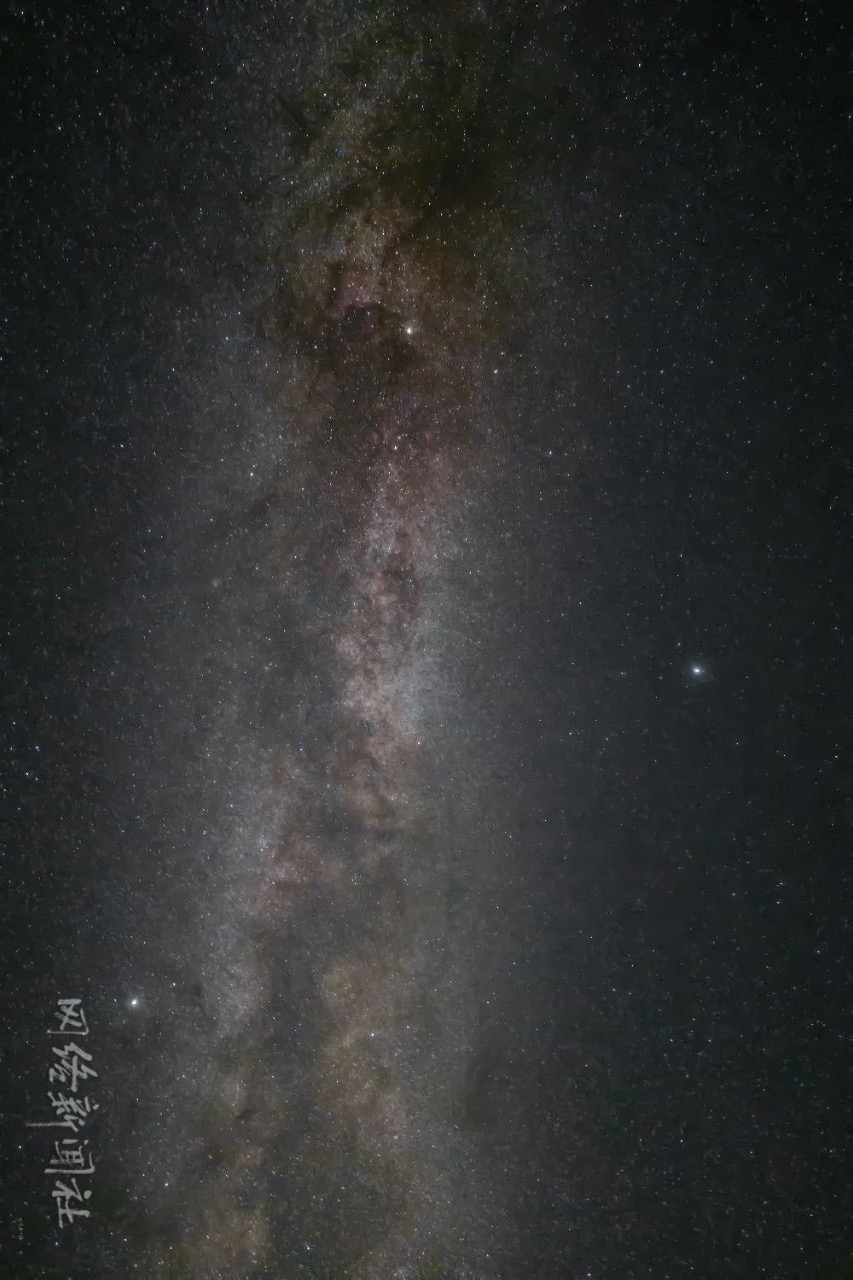
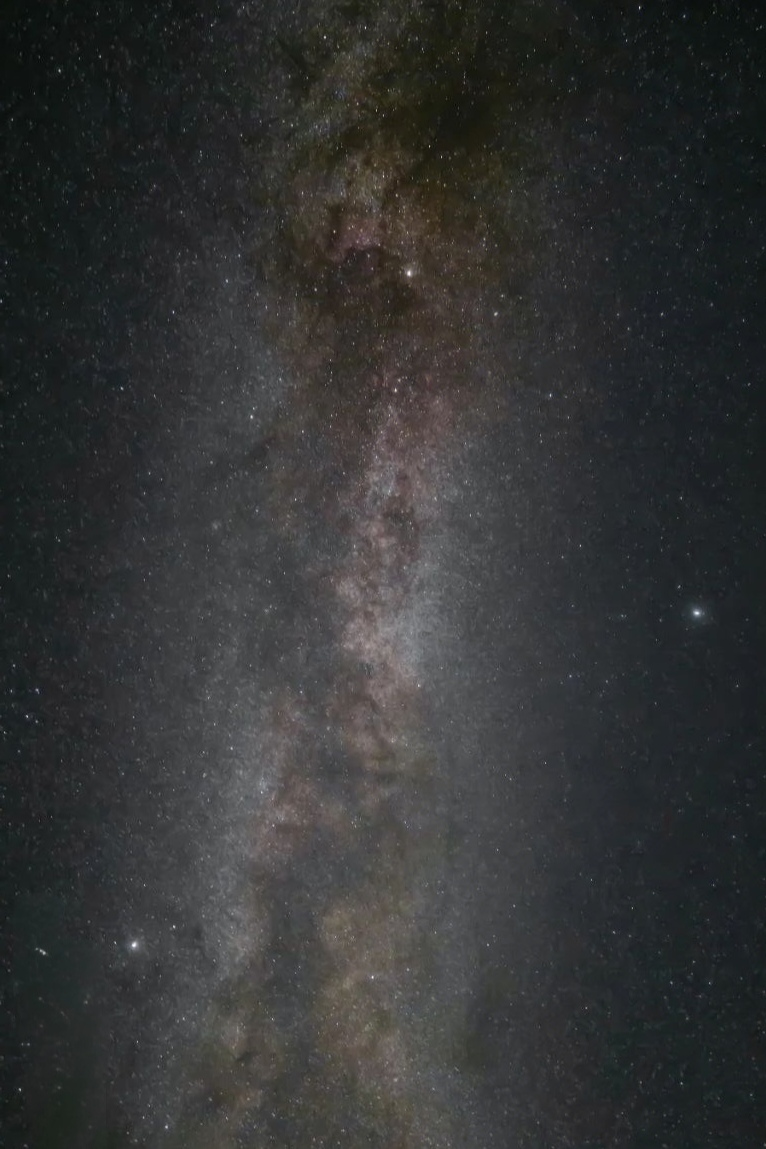
Update Aksai photo and add astrophotography epigraph

diff --git a/_sass/layout/_academic-tech.scss b/_sass/layout/_academic-tech.scss
@@ -987,6 +987,36 @@ html[data-theme="dark"] {
   gap: 1rem;
 }
 
+.showcase-epigraph {
+  display: flex;
+  align-items: baseline;
+  gap: 0.75rem;
+  margin: -0.25rem 0 1.15rem;
+  padding: 0.72rem 0.95rem;
+  border-left: 3px solid var(--tech-cyan);
+  border-radius: 0 12px 12px 0;
+  color: var(--tech-ink);
+  background: linear-gradient(90deg, rgba(37, 151, 186, 0.08), rgba(37, 151, 186, 0.015));
+
+  p,
+  cite {
+    margin: 0;
+  }
+
+  p {
+    font-size: 0.9rem;
+    font-weight: 700;
+    letter-spacing: 0.02em;
+  }
+
+  cite {
+    color: var(--tech-muted);
+    font-family: Georgia, "Times New Roman", serif;
+    font-size: 0.86rem;
+    letter-spacing: 0.04em;
+  }
+}
+
 .showcase-work {
   display: block;
   overflow: hidden;
@@ -1096,6 +1126,21 @@ html[data-theme="dark"] {
 }
 
 @include breakpoint(max-width $medium) {
+  .showcase-epigraph {
+    align-items: flex-start;
+    flex-direction: column;
+    gap: 0.16rem;
+    padding: 0.68rem 0.82rem;
+
+    p {
+      font-size: 0.86rem;
+    }
+
+    cite {
+      font-size: 0.8rem;
+    }
+  }
+
   .showcase-work--compact > a img {
     width: 78%;
   }

diff --git a/_pages/photography.md b/_pages/photography.md
@@ -26,6 +26,11 @@ author_profile: true
 
   <h2>Astrophotography · 天空摄影</h2>
 
+  <blockquote class="showcase-epigraph">
+    <p lang="zh-CN">循此苦旅，以达繁星。</p>
+    <cite lang="la">Per aspera ad astra.</cite>
+  </blockquote>
+
   <div class="showcase-gallery">
     <figure class="showcase-work showcase-work--featured showcase-work--portrait">
       <a href="/images/photography/2026-08-xilingol-milky-way.jpg" class="image-popup">
@@ -85,12 +90,9 @@ author_profile: true
       </figcaption>
     </figure>
 
-    <figure class="showcase-work showcase-work--portrait showcase-work--duo">
-      <a href="/images/photography/2024-08-aksai-summer-triangle-milky-way-1.jpg" class="image-popup">
-        <img src="/images/photography/2024-08-aksai-summer-triangle-milky-way-1.jpg" alt="Summer Triangle and Milky Way above Aksai Kazak Autonomous County, Qinghai, China" loading="lazy" decoding="async">
-      </a>
+    <figure class="showcase-work showcase-work--portrait">
       <a href="/images/photography/2024-08-aksai-summer-triangle-milky-way-2.jpg" class="image-popup">
-        <img src="/images/photography/2024-08-aksai-summer-triangle-milky-way-2.jpg" alt="Milky Way above Aksai Kazak Autonomous County, Qinghai, China" loading="lazy" decoding="async">
+        <img src="/images/photography/2024-08-aksai-summer-triangle-milky-way-2.jpg" alt="Summer Triangle and Milky Way above Aksai Kazak Autonomous County, Qinghai, China" loading="lazy" decoding="async">
       </a>
       <figcaption>
         <span class="showcase-eyebrow">2024.08</span>
